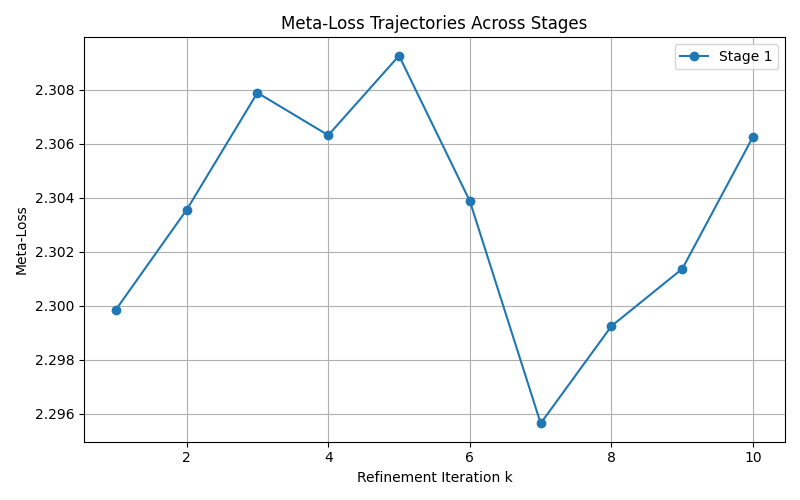
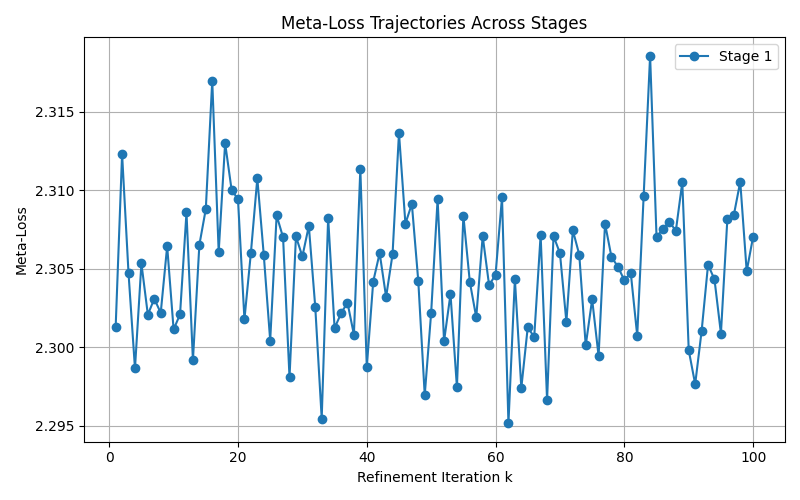
another functional update for PDD

diff --git a/.colab/distillation/PDD.py b/.colab/distillation/PDD.py
@@ -4,6 +4,7 @@ import torch.nn.functional as F
 import higher
 from torch.optim import SGD, Adam
 from tqdm.auto import trange
+from torch.func import functional_call
 
 
 class PDD:
@@ -25,7 +26,7 @@ class PDD:
         lr_syn_data:     learning rate for synthetic updates (meta-step)
         syn_optimizer:   'adam' or 'sgd' for updating synthetic variables
         syn_momentum:    momentum for synthetic SGD optimizer
-        inner_optimizer: 'sgd', 'momentum', or 'adam' for student inner-loop
+        inner_optimizer: 'sgd', 'momentum' for inner-loop learning
         inner_momentum:  momentum for student SGD with momentum
         inner_betas:     tuple (beta1, beta2) for student Adam optimizer
         inner_eps:       epsilon for student Adam optimizer
@@ -72,6 +73,7 @@ class PDD:
 
         # storage for monitoring
         self.meta_loss_history = {}  # list of lists per stage
+        self.inner_lrs  = nn.Parameter(torch.ones(self.T, device=self.device) * lr_model)
 
     def distill(self):
         # Initialize distilled support sets
@@ -88,10 +90,14 @@ class PDD:
             assert Y.shape[0] == self.synthetic_size
             
             # Synthetic optimizer
+            opt_params = [X, self.inner_lrs]
             if self.syn_optimizer == 'sgd':
-                syn_opt = SGD([X], lr=self.lr_syn_data, momentum=self.syn_momentum)
+                syn_opt = SGD(opt_params,
+                              lr=self.lr_syn_data,
+                              momentum=self.syn_momentum)
             else:
-                syn_opt = Adam([X], lr=self.lr_syn_data)
+                syn_opt = Adam(opt_params,
+                               lr=self.lr_syn_data)
 
             # K refinement iterations
             self.meta_loss_stage_history = []
@@ -109,34 +115,46 @@ class PDD:
                     X_sup = X
                     Y_sup = Y
 
-                # Inner-loop: fine-tune student on synthetic data with differentiable optimizer
-                model = self.model_fn().to(self.device)
-                model.load_state_dict(theta0)
 
-                # choose inner optimizer
-                if self.inner_optimizer == 'sgd':
-                    base_opt = SGD(model.parameters(), lr=self.lr_model)
-                elif self.inner_optimizer == 'momentum':
-                    base_opt = SGD(model.parameters(), lr=self.lr_model, momentum=self.inner_momentum)
-                else:
-                    beta1, beta2 = self.inner_betas
-                    base_opt = Adam(model.parameters(), lr=self.lr_model, betas=(beta1, beta2), eps=self.inner_eps)
+                    # 1) instantiate & freeze student params
+                    model = self.model_fn().to(self.device)
+                    model.load_state_dict(theta0)
+                    params = {name: p for name,p in model.named_parameters()}
 
-                with higher.innerloop_ctx(model, base_opt, copy_initial_weights=True) as (fmodel, diffopt):
+                    # 2) optional momentum buffers
+                    if self.inner_optimizer == "momentum":
+                        velocities = {n: torch.zeros_like(p) for n,p in params.items()}
+
+                    # 3) unroll T gradient steps with per-step lr
                     for t in range(self.T):
-                        logits = fmodel(X_sup)
+                        logits   = functional_call(model, params, (X_sup,))
                         loss_sup = F.cross_entropy(logits, Y_sup)
-                        diffopt.step(loss_sup)
+                        grads    = torch.autograd.grad(loss_sup,
+                                                       params.values(),
+                                                       create_graph=True)
 
-                    # Meta-evaluation on real data
+                        # build next‐step params dict
+                        alpha_t = self.inner_lrs[t]
+                        new_params = {}
+                        for (name,p), g in zip(params.items(), grads):
+                            if self.inner_optimizer == "sgd":
+                                new_params[name] = p - alpha_t * g
+                            else:  # momentum
+                                v_new = (self.inner_momentum * velocities[name]
+                                         + (1-self.inner_momentum) * g)
+                                velocities[name] = v_new
+                                new_params[name] = p - alpha_t * v_new
+                        params = new_params
+
+                    # 4) meta‐evaluation on real data with final params
                     try:
                         x_real, y_real = next(real_iter)
                     except StopIteration:
                         real_iter = iter(self.real_loader)
                         x_real, y_real = next(real_iter)
                     x_real, y_real = x_real.to(self.device), y_real.to(self.device)
-                    logits_real = fmodel(x_real)
-                    meta_loss = F.cross_entropy(logits_real, y_real)
+                    logits_real = functional_call(model, params, (x_real,))
+                    meta_loss   = F.cross_entropy(logits_real, y_real)
 
                     # append the losses into the history
                     self.meta_loss_stage_history.append(float(meta_loss.detach().numpy()))
@@ -146,6 +164,10 @@ class PDD:
                 meta_loss.backward()
                 syn_opt.step()
 
+                # clamp for better representation on visuals 
+                with torch.no_grad():
+                    X.data.clamp_(0,1)
+                    
             # store the metalosses 
             self.meta_loss_history[f"{stage}"] = self.meta_loss_stage_history
             

diff --git a/distillation/PDD.py b/distillation/PDD.py
@@ -4,6 +4,7 @@ import torch.nn.functional as F
 import higher
 from torch.optim import SGD, Adam
 from tqdm.auto import trange
+from torch.func import functional_call
 
 
 class PDD:
@@ -25,7 +26,7 @@ class PDD:
         lr_syn_data:     learning rate for synthetic updates (meta-step)
         syn_optimizer:   'adam' or 'sgd' for updating synthetic variables
         syn_momentum:    momentum for synthetic SGD optimizer
-        inner_optimizer: 'sgd', 'momentum', or 'adam' for student inner-loop
+        inner_optimizer: 'sgd', 'momentum' for inner-loop learning
         inner_momentum:  momentum for student SGD with momentum
         inner_betas:     tuple (beta1, beta2) for student Adam optimizer
         inner_eps:       epsilon for student Adam optimizer
@@ -72,6 +73,7 @@ class PDD:
 
         # storage for monitoring
         self.meta_loss_history = {}  # list of lists per stage
+        self.inner_lrs  = nn.Parameter(torch.ones(self.T, device=self.device) * lr_model)
 
     def distill(self):
         # Initialize distilled support sets
@@ -88,10 +90,14 @@ class PDD:
             assert Y.shape[0] == self.synthetic_size
             
             # Synthetic optimizer
+            opt_params = [X, self.inner_lrs]
             if self.syn_optimizer == 'sgd':
-                syn_opt = SGD([X], lr=self.lr_syn_data, momentum=self.syn_momentum)
+                syn_opt = SGD(opt_params,
+                              lr=self.lr_syn_data,
+                              momentum=self.syn_momentum)
             else:
-                syn_opt = Adam([X], lr=self.lr_syn_data)
+                syn_opt = Adam(opt_params,
+                               lr=self.lr_syn_data)
 
             # K refinement iterations
             self.meta_loss_stage_history = []
@@ -109,34 +115,46 @@ class PDD:
                     X_sup = X
                     Y_sup = Y
 
-                # Inner-loop: fine-tune student on synthetic data with differentiable optimizer
-                model = self.model_fn().to(self.device)
-                model.load_state_dict(theta0)
 
-                # choose inner optimizer
-                if self.inner_optimizer == 'sgd':
-                    base_opt = SGD(model.parameters(), lr=self.lr_model)
-                elif self.inner_optimizer == 'momentum':
-                    base_opt = SGD(model.parameters(), lr=self.lr_model, momentum=self.inner_momentum)
-                else:
-                    beta1, beta2 = self.inner_betas
-                    base_opt = Adam(model.parameters(), lr=self.lr_model, betas=(beta1, beta2), eps=self.inner_eps)
+                    # 1) instantiate & freeze student params
+                    model = self.model_fn().to(self.device)
+                    model.load_state_dict(theta0)
+                    params = {name: p for name,p in model.named_parameters()}
 
-                with higher.innerloop_ctx(model, base_opt, copy_initial_weights=True) as (fmodel, diffopt):
+                    # 2) optional momentum buffers
+                    if self.inner_optimizer == "momentum":
+                        velocities = {n: torch.zeros_like(p) for n,p in params.items()}
+
+                    # 3) unroll T gradient steps with per-step lr
                     for t in range(self.T):
-                        logits = fmodel(X_sup)
+                        logits   = functional_call(model, params, (X_sup,))
                         loss_sup = F.cross_entropy(logits, Y_sup)
-                        diffopt.step(loss_sup)
+                        grads    = torch.autograd.grad(loss_sup,
+                                                       params.values(),
+                                                       create_graph=True)
 
-                    # Meta-evaluation on real data
+                        # build next‐step params dict
+                        alpha_t = self.inner_lrs[t]
+                        new_params = {}
+                        for (name,p), g in zip(params.items(), grads):
+                            if self.inner_optimizer == "sgd":
+                                new_params[name] = p - alpha_t * g
+                            else:  # momentum
+                                v_new = (self.inner_momentum * velocities[name]
+                                         + (1-self.inner_momentum) * g)
+                                velocities[name] = v_new
+                                new_params[name] = p - alpha_t * v_new
+                        params = new_params
+
+                    # 4) meta‐evaluation on real data with final params
                     try:
                         x_real, y_real = next(real_iter)
                     except StopIteration:
                         real_iter = iter(self.real_loader)
                         x_real, y_real = next(real_iter)
                     x_real, y_real = x_real.to(self.device), y_real.to(self.device)
-                    logits_real = fmodel(x_real)
-                    meta_loss = F.cross_entropy(logits_real, y_real)
+                    logits_real = functional_call(model, params, (x_real,))
+                    meta_loss   = F.cross_entropy(logits_real, y_real)
 
                     # append the losses into the history
                     self.meta_loss_stage_history.append(float(meta_loss.detach().numpy()))
@@ -146,6 +164,10 @@ class PDD:
                 meta_loss.backward()
                 syn_opt.step()
 
+                # clamp for better representation on visuals 
+                with torch.no_grad():
+                    X.data.clamp_(0,1)
+                    
             # store the metalosses 
             self.meta_loss_history[f"{stage}"] = self.meta_loss_stage_history
             

diff --git a/.colab/scripts/run_distill.py b/.colab/scripts/run_distill.py
@@ -28,10 +28,10 @@ pdd = PDD(model_fn=model_fn,
           image_shape=(1, 28, 28),
           num_classes=10,
           synthetic_size=100,  # e.g. 10 per class
-          P=5, K=200, T=20,
+          P=5, K=200, T=30,
           lr_model=1e-4, lr_syn_data=1e-3, 
           syn_optimizer="adam", 
-          inner_optimizer="adam")
+          inner_optimizer="momentum")
 
 # 4) run distillation
 X_syn, Y_syn = pdd.distill()

diff --git a/scripts/run_distill.py b/scripts/run_distill.py
@@ -28,10 +28,10 @@ pdd = PDD(model_fn=model_fn,
           image_shape=(1, 28, 28),
           num_classes=10,
           synthetic_size=100,  # e.g. 10 per class
-          P=5, K=200, T=20,
+          P=5, K=200, T=30,
           lr_model=1e-4, lr_syn_data=1e-3, 
           syn_optimizer="adam", 
-          inner_optimizer="adam")
+          inner_optimizer="momentum")
 
 # 4) run distillation
 X_syn, Y_syn = pdd.distill()
